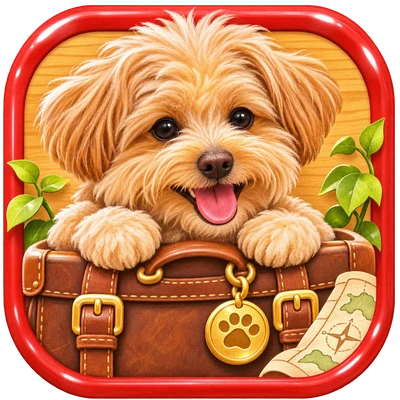
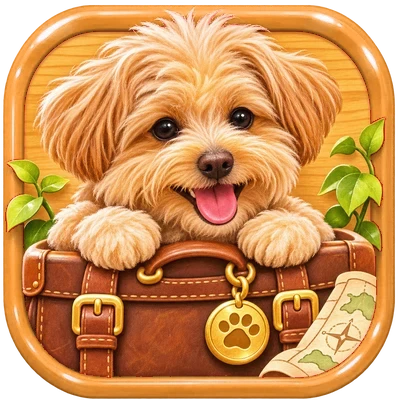
箱入りワンコ: ナチュラルの大パネル(コロン/ムーン)の赤枠をナチュラルの金色枠に変更
Claude-Session: https://claude.ai/code/session_01C8PtLDws9mEun2KRsPMwCE

Changed region(s): [[0.0, 0.0, 0.99, 1.0]]

diff --git a/sw.js b/sw.js
@@ -1,5 +1,5 @@
 // オフライン対応（ページは最新を優先、画像などはキャッシュを優先）
-const V='gc-v208';
+const V='gc-v209';
 const CORE=['./','index.html','coins.js','backup.js','manifest.webmanifest','icons/icon-192.png',
  ...['reversi','shogi','wanko','gomoku','memory','escape','rings','peg','slide','hanoi'].map(g=>g+'/')];
 self.addEventListener('install',e=>{e.waitUntil(caches.open(V).then(c=>c.addAll(CORE)).then(()=>self.skipWaiting()))});
